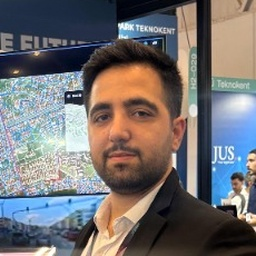
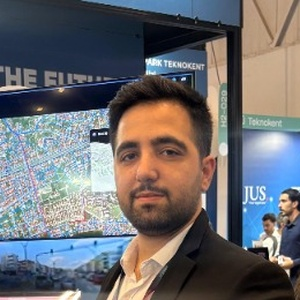
feat: Header ve footer marka alanina gercek profesyonel portre vesikalik gorseli entegre edildi

diff --git a/blog.html b/blog.html
@@ -29,10 +29,7 @@
   <header class="dilbeste-header" id="header">
     <div class="dilbeste-container header-inner">
       <a href="index.html" class="brand-box">
-        <div class="brand-monogram" aria-hidden="true">
-          <span class="monogram-text">ÖB</span>
-          <span class="monogram-code">&lt;/&gt;</span>
-        </div>
+        <img src="assets/images/omer-avatar.jpg" alt="Ömer Faruk Balcı" class="brand-avatar">
         <div class="brand-text-wrap">
           <span class="brand-name">Ömer Faruk Balcı</span>
           <span class="brand-tag">Software Engineer • AI & BI</span>
@@ -208,10 +205,7 @@
       <!-- Col 1: Brand & Bio -->
       <div class="footer-col-brand">
         <div class="footer-brand-header">
-          <div class="brand-monogram footer-monogram" aria-hidden="true">
-            <span class="monogram-text">ÖB</span>
-            <span class="monogram-code">&lt;/&gt;</span>
-          </div>
+          <img src="assets/images/omer-avatar.jpg" alt="Ömer Faruk Balcı" class="footer-avatar">
           <h3 class="footer-name">Ömer Faruk Balcı</h3>
         </div>
         <p class="footer-bio-text">

diff --git a/index.html b/index.html
@@ -33,10 +33,7 @@
   <header class="dilbeste-header" id="header">
     <div class="dilbeste-container header-inner">
       <a href="#" class="brand-box">
-        <div class="brand-monogram" aria-hidden="true">
-          <span class="monogram-text">ÖB</span>
-          <span class="monogram-code">&lt;/&gt;</span>
-        </div>
+        <img src="assets/images/omer-avatar.jpg" alt="Ömer Faruk Balcı" class="brand-avatar">
         <div class="brand-text-wrap">
           <span class="brand-name">Ömer Faruk Balcı</span>
           <span class="brand-tag">Software Engineer • AI & BI</span>
@@ -908,10 +905,7 @@
       <!-- Col 1: Brand & Bio -->
       <div class="footer-col-brand">
         <div class="footer-brand-header">
-          <div class="brand-monogram footer-monogram" aria-hidden="true">
-            <span class="monogram-text">ÖB</span>
-            <span class="monogram-code">&lt;/&gt;</span>
-          </div>
+          <img src="assets/images/omer-avatar.jpg" alt="Ömer Faruk Balcı" class="footer-avatar">
           <h3 class="footer-name">Ömer Faruk Balcı</h3>
         </div>
         <p class="footer-bio-text">

diff --git a/style.css b/style.css
@@ -170,6 +170,14 @@ button {
   border-radius: 50%;
   object-fit: cover;
   border: 2px solid var(--accent);
+  box-shadow: 0 2px 8px rgba(37, 99, 235, 0.2);
+  transition: transform 0.3s ease, border-color 0.3s ease, box-shadow 0.3s ease;
+}
+
+.brand-box:hover .brand-avatar {
+  transform: scale(1.08);
+  border-color: #38bdf8;
+  box-shadow: 0 4px 14px rgba(37, 99, 235, 0.35);
 }
 
 .brand-monogram {
@@ -1520,7 +1528,13 @@ button {
   height: 46px;
   border-radius: 50%;
   object-fit: cover;
-  border: 2px solid var(--accent);
+  border: 2px solid #38bdf8;
+  box-shadow: 0 2px 10px rgba(56, 189, 248, 0.3);
+  transition: transform 0.3s ease;
+}
+
+.footer-brand-header:hover .footer-avatar {
+  transform: scale(1.08);
 }
 
 .footer-monogram {

diff --git a/blog-fullstack-java-yol-haritasi.html b/blog-fullstack-java-yol-haritasi.html
@@ -21,10 +21,7 @@
   <header class="dilbeste-header" id="header">
     <div class="dilbeste-container header-inner">
       <a href="index.html" class="brand-box">
-        <div class="brand-monogram" aria-hidden="true">
-          <span class="monogram-text">ÖB</span>
-          <span class="monogram-code">&lt;/&gt;</span>
-        </div>
+        <img src="assets/images/omer-avatar.jpg" alt="Ömer Faruk Balcı" class="brand-avatar">
         <div class="brand-text-wrap">
           <span class="brand-name">Ömer Faruk Balcı</span>
           <span class="brand-tag">Software Engineer • AI & BI</span>

diff --git a/blog-javada-servlet.html b/blog-javada-servlet.html
@@ -21,10 +21,7 @@
   <header class="dilbeste-header" id="header">
     <div class="dilbeste-container header-inner">
       <a href="index.html" class="brand-box">
-        <div class="brand-monogram" aria-hidden="true">
-          <span class="monogram-text">ÖB</span>
-          <span class="monogram-code">&lt;/&gt;</span>
-        </div>
+        <img src="assets/images/omer-avatar.jpg" alt="Ömer Faruk Balcı" class="brand-avatar">
         <div class="brand-text-wrap">
           <span class="brand-name">Ömer Faruk Balcı</span>
           <span class="brand-tag">Software Engineer • AI & BI</span>

diff --git a/blog-numain-rag.html b/blog-numain-rag.html
@@ -21,10 +21,7 @@
   <header class="dilbeste-header" id="header">
     <div class="dilbeste-container header-inner">
       <a href="index.html" class="brand-box">
-        <div class="brand-monogram" aria-hidden="true">
-          <span class="monogram-text">ÖB</span>
-          <span class="monogram-code">&lt;/&gt;</span>
-        </div>
+        <img src="assets/images/omer-avatar.jpg" alt="Ömer Faruk Balcı" class="brand-avatar">
         <div class="brand-text-wrap">
           <span class="brand-name">Ömer Faruk Balcı</span>
           <span class="brand-tag">Software Engineer • AI & BI</span>

diff --git a/blog-springboot-blog.html b/blog-springboot-blog.html
@@ -21,10 +21,7 @@
   <header class="dilbeste-header" id="header">
     <div class="dilbeste-container header-inner">
       <a href="index.html" class="brand-box">
-        <div class="brand-monogram" aria-hidden="true">
-          <span class="monogram-text">ÖB</span>
-          <span class="monogram-code">&lt;/&gt;</span>
-        </div>
+        <img src="assets/images/omer-avatar.jpg" alt="Ömer Faruk Balcı" class="brand-avatar">
         <div class="brand-text-wrap">
           <span class="brand-name">Ömer Faruk Balcı</span>
           <span class="brand-tag">Software Engineer • AI & BI</span>

diff --git a/blog-yapay-zeka-yazilimcilar.html b/blog-yapay-zeka-yazilimcilar.html
@@ -21,7 +21,7 @@
   <header class="dilbeste-header" id="header">
     <div class="dilbeste-container header-inner">
       <a href="index.html" class="brand-box">
-        <img src="assets/images/developer-avatar.jpg" alt="Ömer Faruk Balcı" class="brand-avatar">
+        <img src="assets/images/omer-avatar.jpg" alt="Ömer Faruk Balcı" class="brand-avatar">
         <div class="brand-text-wrap">
           <span class="brand-name">Ömer Faruk Balcı</span>
           <span class="brand-tag">Software Engineer • AI & BI</span>
